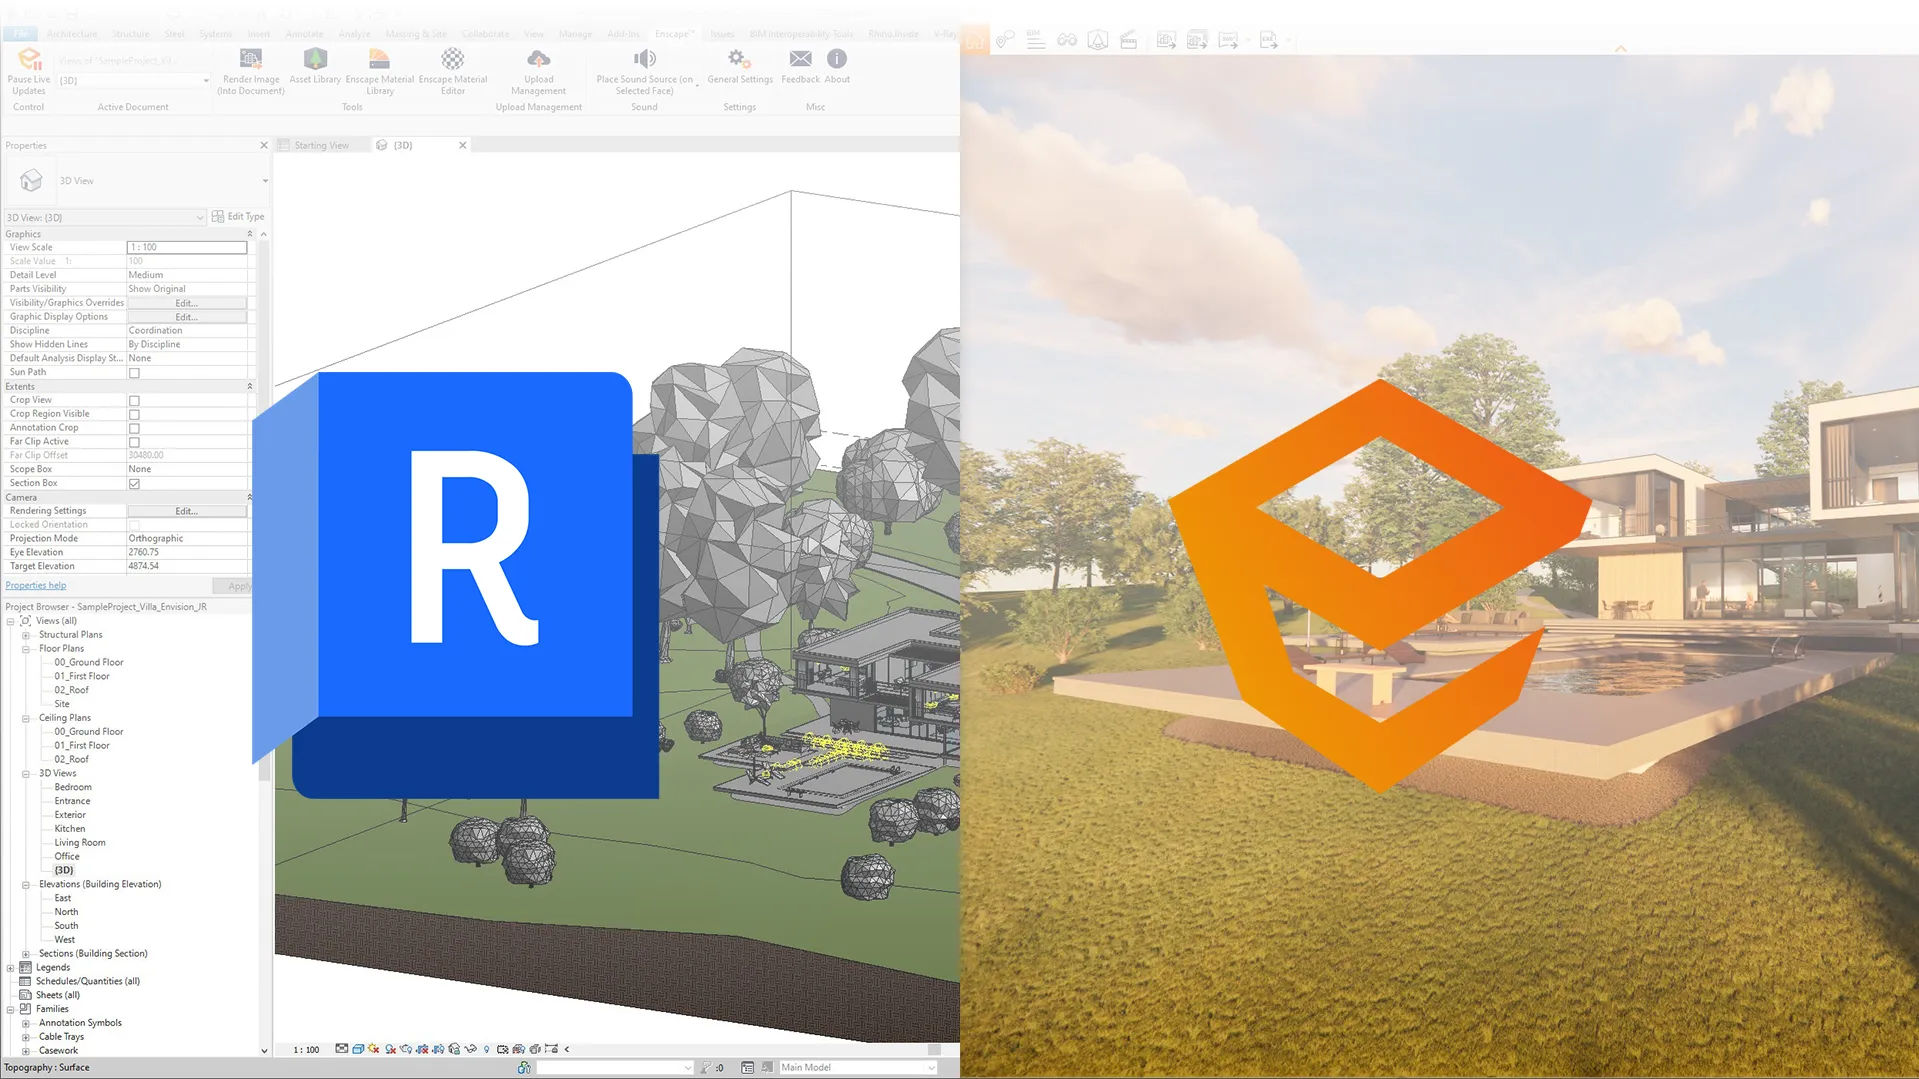
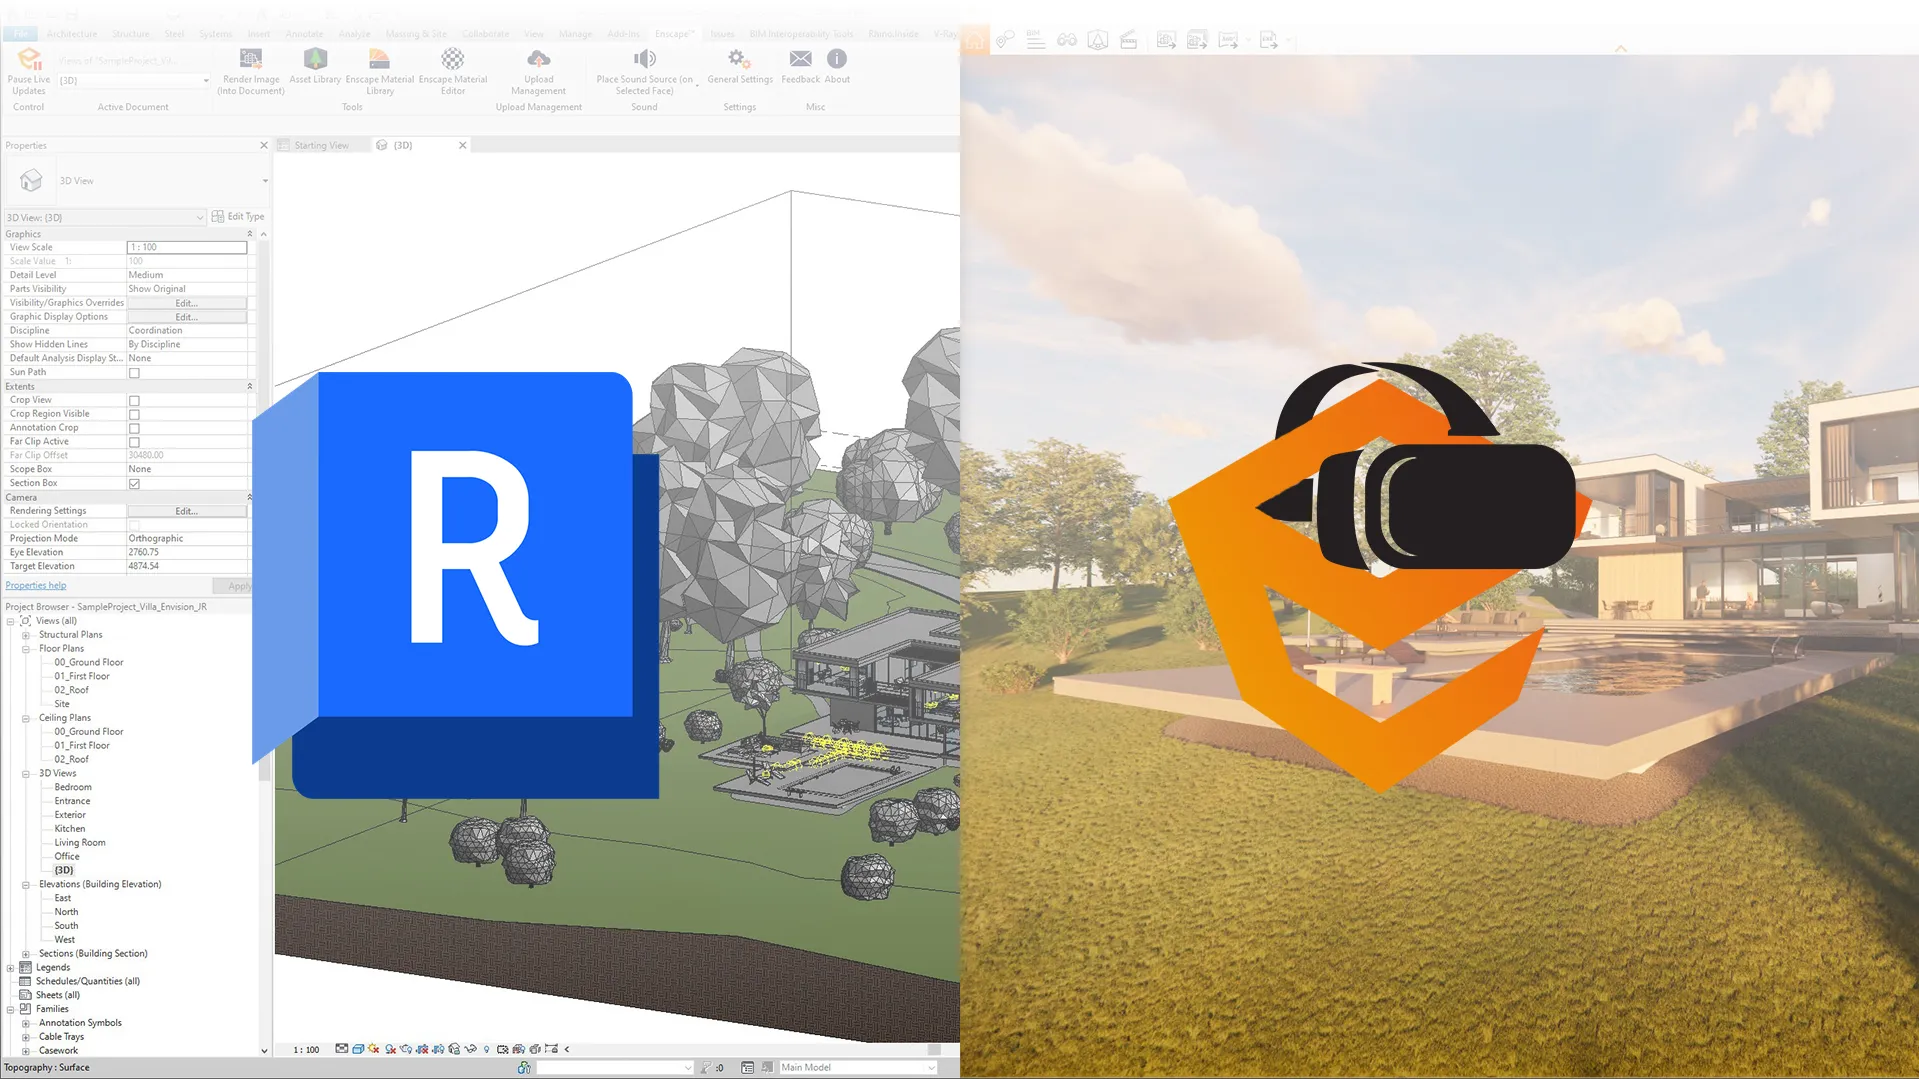
first commit

Changed region(s): [[0.6456, 0.3364, 0.8301, 0.5505]]

diff --git a/scripts/translations.js b/scripts/translations.js
@@ -598,7 +598,7 @@ const translations = {
     rvSkill5: "Professional graphic presentation and printing",
 
     rvencourseTitle:
-      "Revit Architecture & Enscape - From Scratch to Professional Renders",
+      "Revit Architecture & Enscape - From Scratch to VR Realtime Rendering",
     rvencourseShortDesc:
       "Learn to model buildings and create realistic renders using Revit and Enscape.",
     rvencourseLongDesc:
@@ -1986,7 +1986,7 @@ const translations = {
     rvSkill5: "Présentation graphique et impression professionnelle",
 
     rvencourseTitle:
-      "Revit Architecture et Enscape -  À Partir de Zéro Au Rendu",
+      "Revit Architecture et Enscape -  À Partir de Zéro Au Rendu VR",
     rvencourseShortDesc:
       "Apprenez à modéliser des bâtiments et créer des rendus réalistes avec Revit et Enscape.",
     rvencourseLongDesc:
@@ -3391,7 +3391,7 @@ const translations = {
     rvSkill5: "عرض جرافيكي وطباعة احترافية",
 
     rvencourseTitle:
-      "Revit Architecture و Enscape - البدء من الصفر إلى الإخراج الواقعي",
+      "Revit Architecture و Enscape - البدء من الصفر إلى الإخراج بتقنية VR",
     rvencourseShortDesc:
       "تعلّم نمذجة المباني وإنتاج رندرات واقعية باستخدام Revit وEnscape.",
     rvencourseLongDesc:
